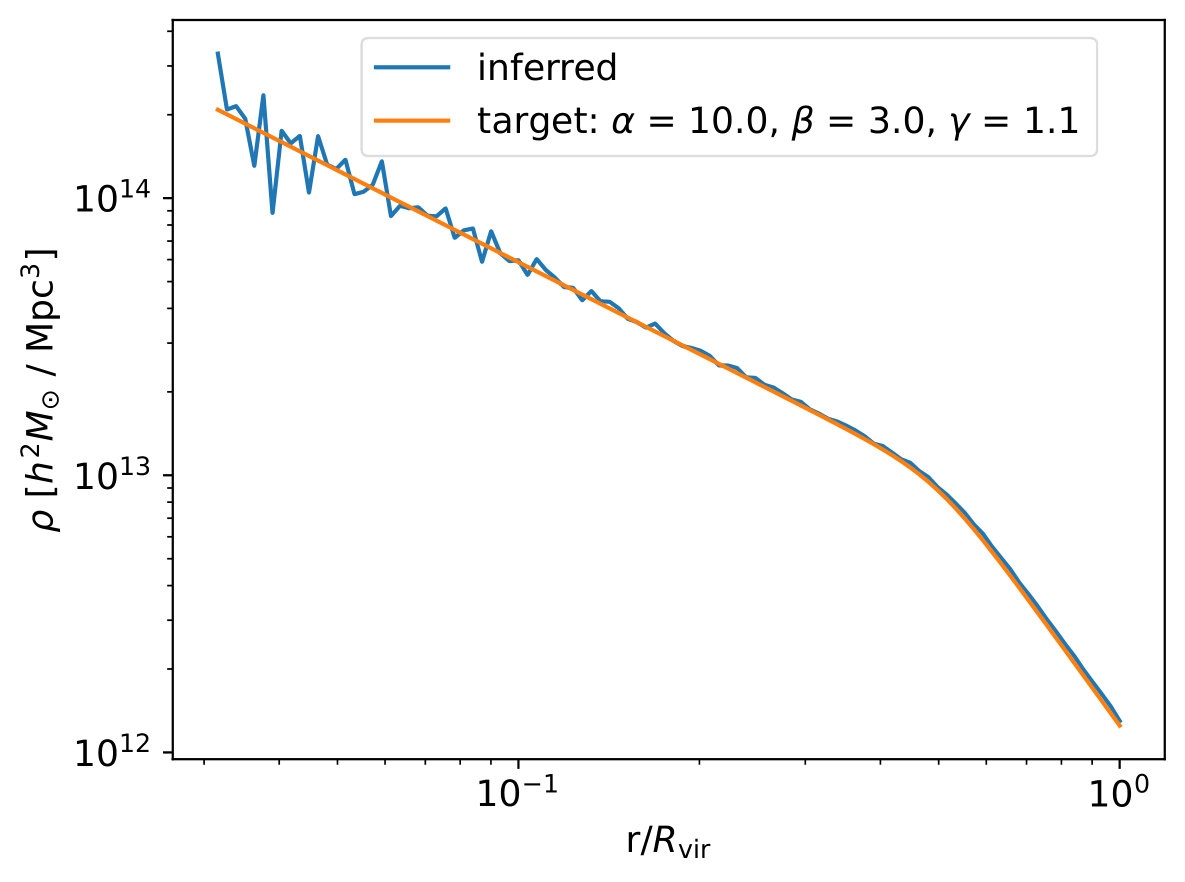
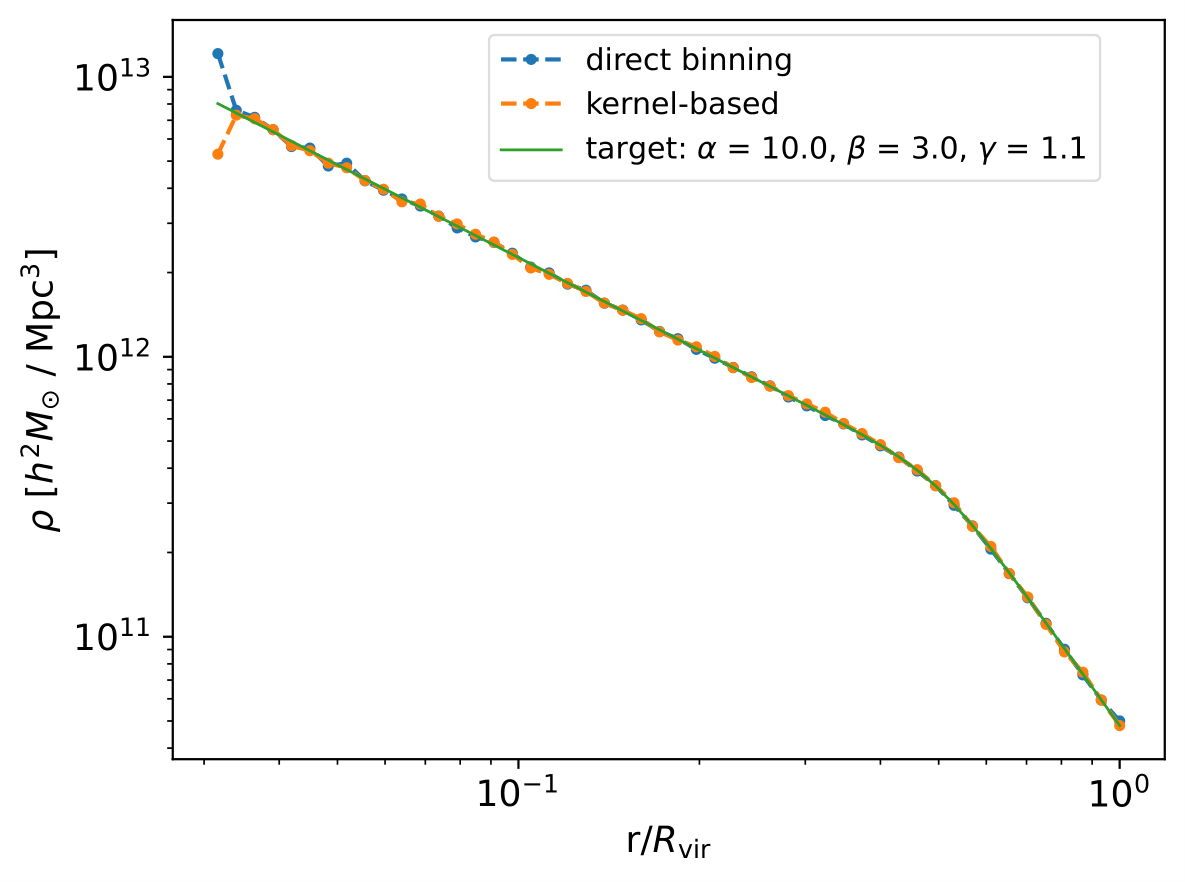
Added kernel-based density profile estimation. Corrected direct binning density profile estimation method by considering number of particles in second shell as anchor and bin edges around radii of interest

diff --git a/example_scripts/halo_gen_dens_prof.py b/example_scripts/halo_gen_dens_prof.py
@@ -39,20 +39,21 @@ MIN_NUMBER_DM_PTCS = 200
 CENTER = 'com'
 
 #################################### Generate 1 mock halo ######################################
-rho_0 = 10**(13) # Units are M_sun*h^2/Mpc^3
+tot_mass = 10**(12) # M_sun/h
+halo_res = 500000
 r_s = 0.5 # Units are Mpc/h
 alpha = 10
 beta = 3
 gamma = 1.1
 N_bin = 100
 a_max = 1 # Units are Mpc/h
-a = np.logspace(-1.5,0,N_bin)*a_max # Units are Mpc/h
+a = np.logspace(-1.5,0.2,N_bin)*a_max # Units are Mpc/h
 b = a # Units are Mpc/h. The more b differs from a, the more biased the spherically averaged density profile.
 c = a # Units are Mpc/h
-rho_res = 100
-r_over_rvir = np.logspace(-1.5,0,rho_res)
+rho_res = 50
+r_over_rvir = np.logspace(-1.5,0,rho_res) # Estimate density profile out to the virial radius.
 
-halo_x, halo_y, halo_z, mass_dm = genAlphaBetaGammaHalo(N0, alpha, beta, gamma, rho_0, r_s, a, b, c)
+halo_x, halo_y, halo_z, mass_dm, rho_0 = genAlphaBetaGammaHalo(tot_mass, halo_res, alpha, beta, gamma, r_s, a, b, c)
 halo_x += L_BOX/2 # Move mock halo into the middle of the simulation box
 halo_y += L_BOX/2
 halo_z += L_BOX/2
@@ -69,12 +70,15 @@ cshapes = CosmicShapesDirect(dm_xyz, mass_array, h_indices, r_vir, CAT_DEST, VIZ
 
 ############################## Calculate Density Profile #######################################
 # Visualize density profile: A sample output is shown above!
-dens_profs = cshapes.calcDensProfs(r_over_rvir)
-dens_prof = dens_profs[0]
+dens_profs_db = cshapes.calcDensProfsDirectBinning(r_over_rvir)
+dens_profs_kb = cshapes.calcDensProfsKernelBased(r_over_rvir)
+dens_prof_db = dens_profs_db[0]
+dens_prof_kb = dens_profs_kb[0]
 plt.figure()
-plt.loglog(r_over_rvir, dens_prof, label='inferred')
-plt.loglog(r_over_rvir, getAlphaBetaGammaProf(r_over_rvir*r_vir[0], alpha, beta, gamma, rho_0, r_s), label=r'target: $\alpha$ = {:.1f}, $\beta$ = {:.1f}, $\gamma$ = {:.1f}'.format(alpha, beta, gamma))
+plt.loglog(r_over_rvir, dens_prof_db, 'o--', label='direct binning', markersize = 3)
+plt.loglog(r_over_rvir, dens_prof_kb, 'o--', label='kernel-based', markersize = 3)
+plt.loglog(r_over_rvir, getAlphaBetaGammaProf(r_over_rvir*r_vir[0], alpha, beta, gamma, rho_0, r_s), lw = 1.0, label=r'target: $\alpha$ = {:.1f}, $\beta$ = {:.1f}, $\gamma$ = {:.1f}'.format(alpha, beta, gamma))
 plt.xlabel(r'r/$R_{\mathrm{vir}}$')
 plt.ylabel(r"$\rho$ [$h^2M_{{\odot}}$ / Mpc${{}}^3$]")
-plt.legend(bbox_to_anchor=(0.95, 1), loc='upper right')
+plt.legend(fontsize="small", bbox_to_anchor=(0.95, 1), loc='upper right')
 plt.savefig('{}/RhoProfObj0_{}.pdf'.format(VIZ_DEST, SNAP), bbox_inches='tight')
